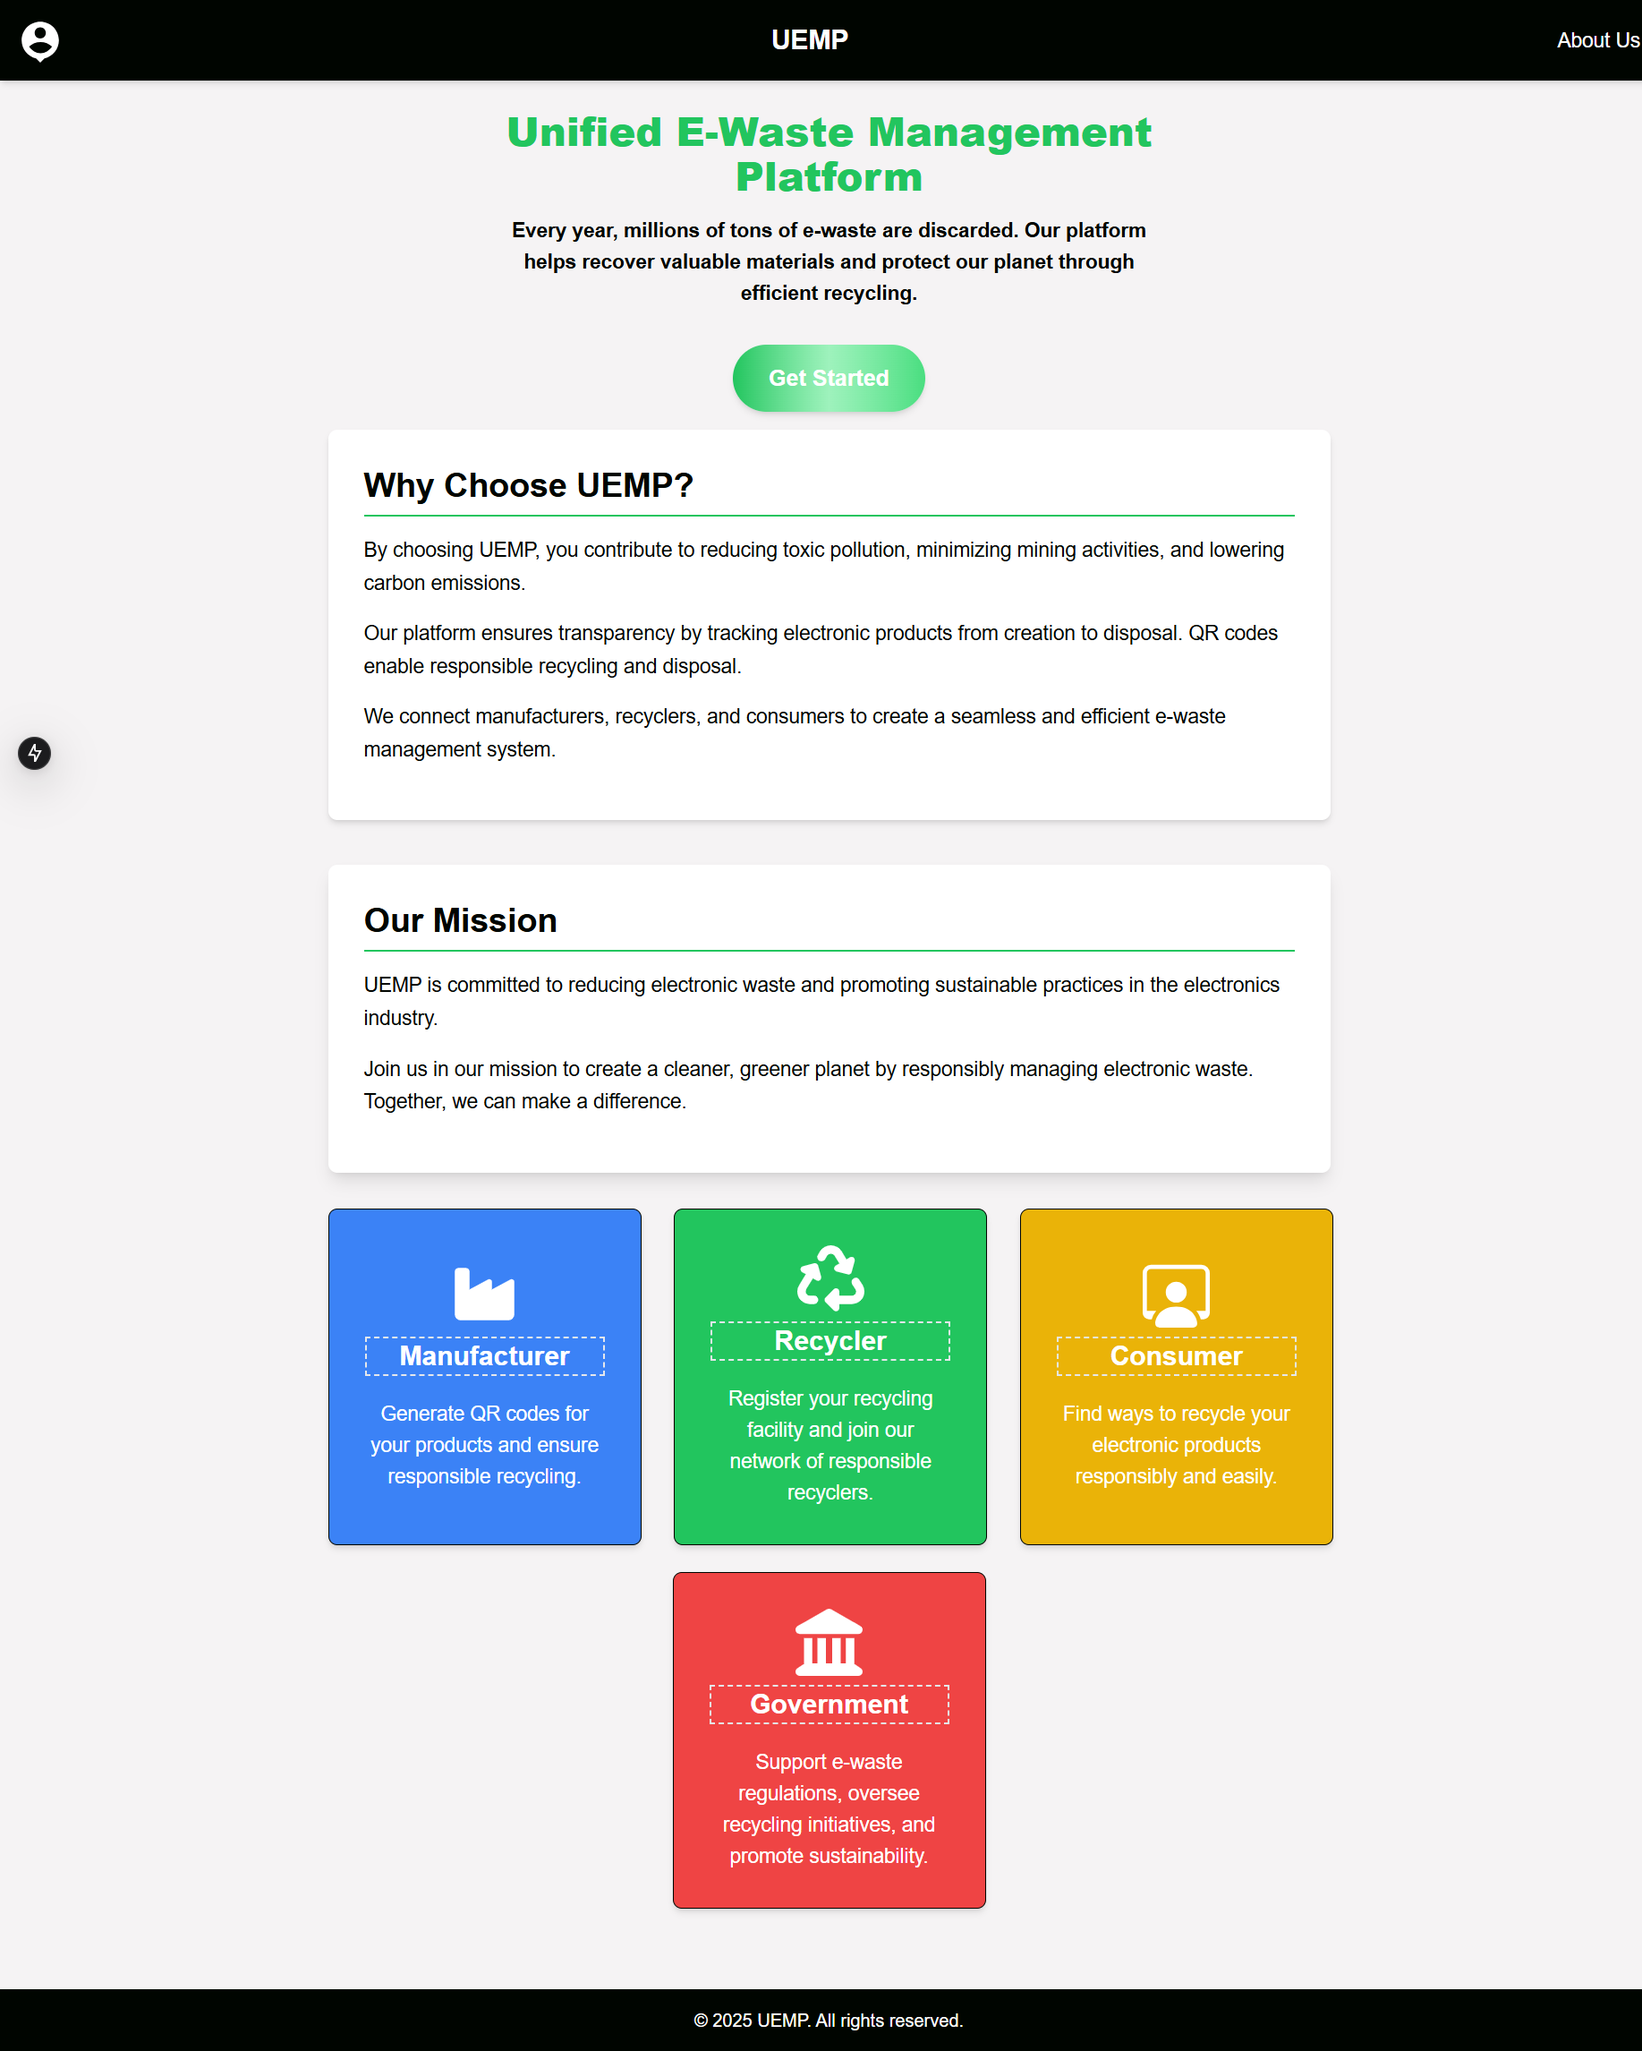
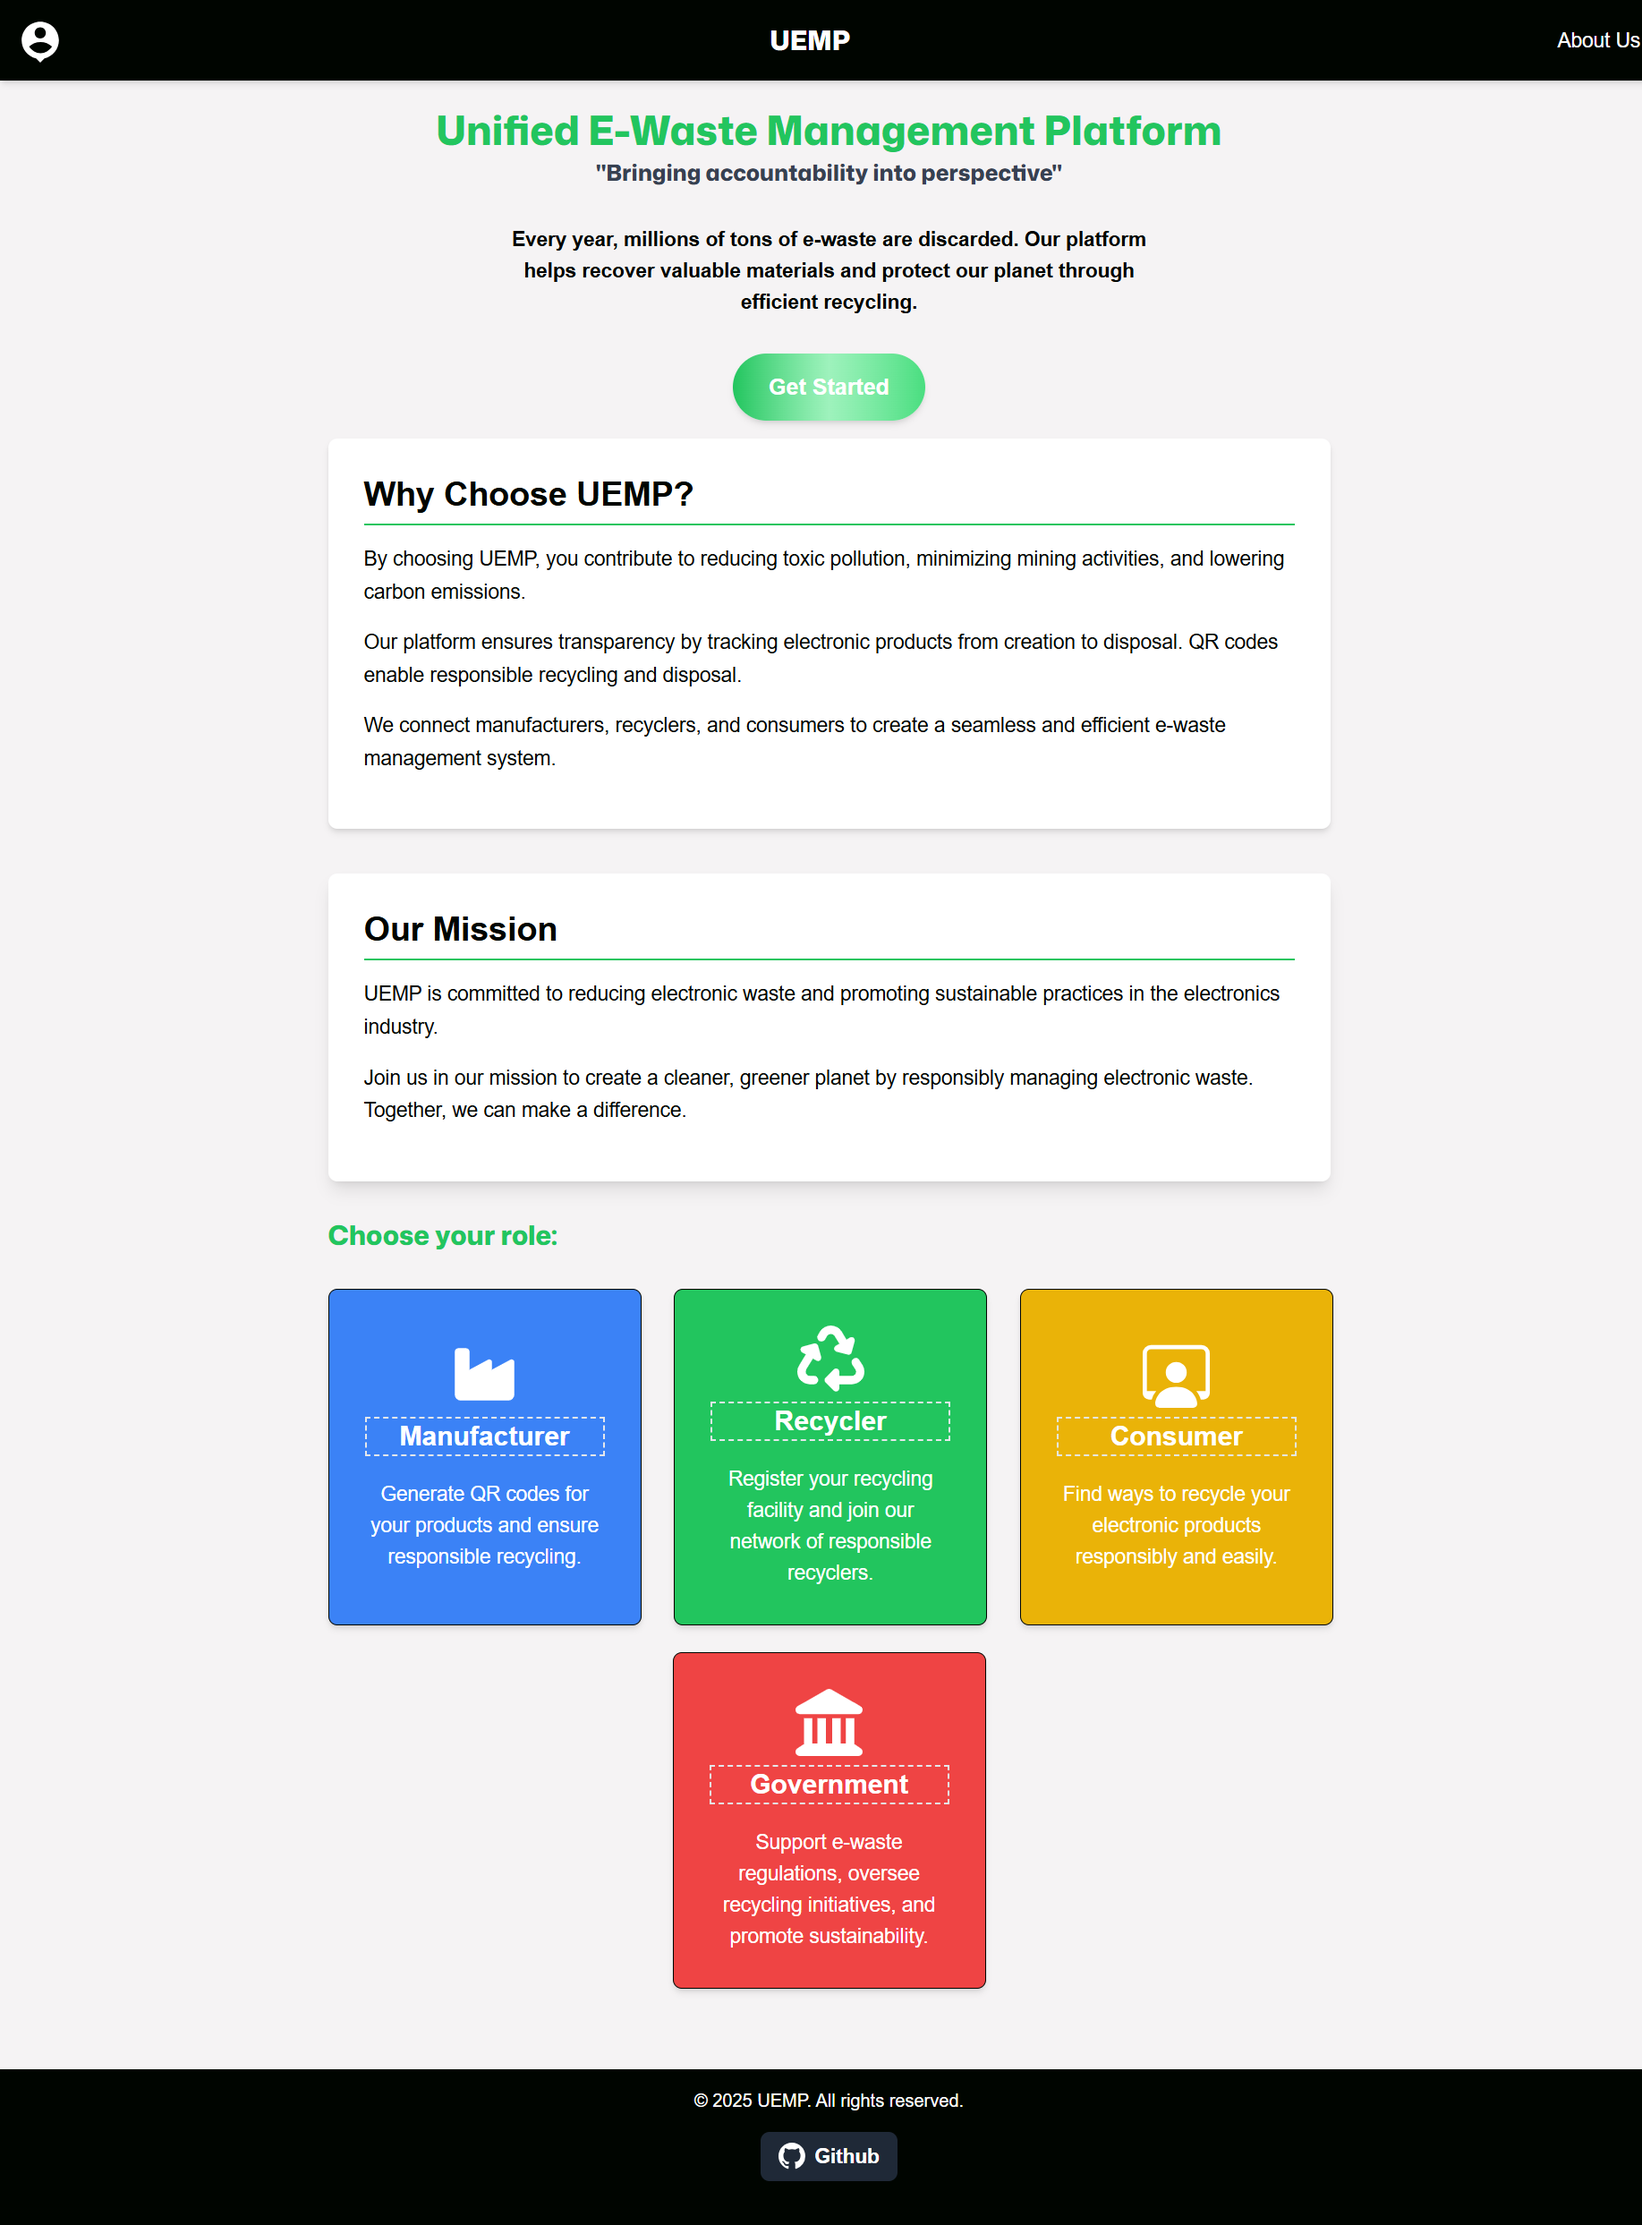
Sitemap addition; Changes to snapshots;

Changed region(s): [[0.0, 0.2169, 1.0, 0.9917], [0.0, 0.0, 1.0, 0.2169], [0.0, 0.3409, 0.0311, 0.3719]]

diff --git a/src/app/page.tsx b/src/app/page.tsx
@@ -85,13 +85,13 @@ const Home = () => {
       </div>
       <main className="p-6 flex flex-col items-center flex-grow">
         <h1 className={`${monaSans.className} font-sans`}>
-            <p className="text-center text-4xl text-green-500 mb-1 relative z-10">
-              Unified{" "}
-              <span className="inline-block md:inline min-h-[2em]">
+          <p className="text-center text-4xl text-green-500 mb-1 relative z-10">
+            Unified{" "}
+            <span className="inline-block md:inline min-h-[2em]">
               {value}
-              </span>
-              <span className="block md:inline"> Platform</span>
-            </p>
+            </span>
+            <span className="block md:inline"> Platform</span>
+          </p>
         </h1>
         <h2 className={`${monaSans.className} font-sans text-xl text-center text-gray-700 mb-8`}>
           &quot;Bringing accountability into perspective&quot;

diff --git a/src/app/layout.tsx b/src/app/layout.tsx
@@ -13,7 +13,7 @@ const geistMono = Geist_Mono({
 });
 
 export const metadata: Metadata = {
-  title: "UEMP",
+  title: "Unified E-Waste Management Platform (UEMP)",
   description: "A unified E-Waste Management Platform",
 };
 
